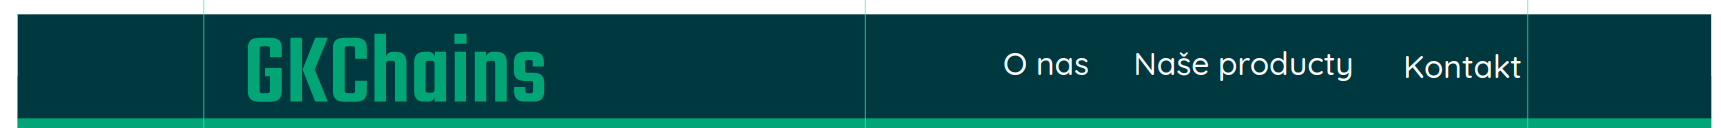
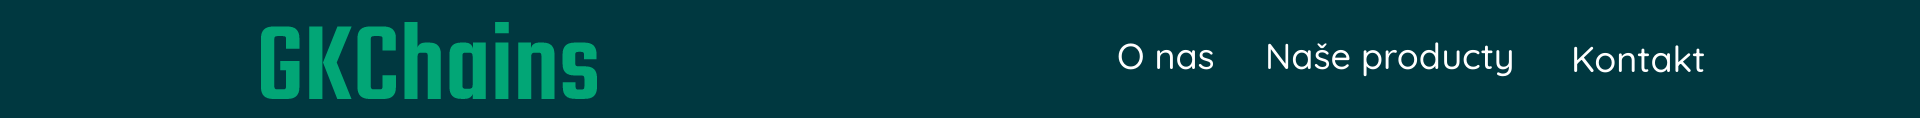
space optimisation and HTML + CSS

diff --git a/main.tex b/main.tex
@@ -1,6 +1,5 @@
 \input{preamble}
 \input{commands}
-
 \begin{document}
   \setlength{\emergencystretch}{10pt}
   \setcounter{page}{0}
@@ -9,6 +8,7 @@
   \include{introduction}
 
   \setcounter{tocdepth}{5}
+  \setcounter{secnumdepth}{5}
 
   \renewcommand{\contentsname}{Obsah}
   \tableofcontents
@@ -68,6 +68,12 @@ Môj maturitný projekt sa zameriava na 3D vizualizáciu kľúčenok a obalu pre
             Programovaci jazyk \textbf{\href{https://developer.mozilla.org/en-US/docs/Web/JavaScript}{JavaScript}}
 
             JavaScript (JS) je ľahký interpretovaný (alebo just-in-time skompilovaný) programovací jazyk s prvotriednymi funkciami.Je najznámejší ako skriptovací jazyk pre webové stránky.
+          }
+          \item{
+            \textbf{\href{https://sass-lang.com/}{SASS}} - najvyzretejší, najstabilnejší a najvýkonnejší profesionálny rozširujúci jazyk CSS na svete.
+          }
+          \item{
+            \textbf{\href{https://yandex.ru/dev/bem/}{BEM}} (Block, Element, Modifier) je komponentový prístup k vývoju webových stránok, ktorý je založený na princípe rozdelenia rozhrania do nezávislých blokov. Vyvynuta v Yandexe.
           }
           \item{
             Pre odobrazenie 3D modelov na webstranke bola použita 3D knižnica jazyka JavaScript \textbf{\href{https://github.com/mrdoob/three.js/}{three.js}}
@@ -233,24 +239,22 @@ Využitie 3D vizualizácie v obalovej technike nekončí len pri internom dizajn
           3
         \end{center}
 
-        Objekt som vyhladil pomocou modifikátora Subdivision Surface na úrovni 2. Aktivoval som funkciu Smooth Shading (Hladké tieňovanie), aby som dosiahol efekt vyhladenia objektu: \\
+        Objekt som vyhladil pomocou modifikátora Subdivision Surface na úrovni 2, aktivoval som funkciu Smooth Shading (plynulé tieňovanie), aby som dosiahol efekt vyhladenia a objekt som 2-krát skopíroval a otočil, ako je znázornené na obrázku. Všetky tri objekty som spojila do jedného. \\
         \begin{center}
-          \includegraphics[width=10cm]{keychains/4}
+          \begin{tabular}{c c}
+            \includegraphics[width=6cm]{keychains/4} & \includegraphics[width=6cm]{keychains/5} \\
+            1 & 2 \\
+          \end{tabular}
         \end{center}
 
-        Objekt som skopíroval 2-krát a otočil ho tak, ako je znázornené: \\
         \begin{center}
-          \includegraphics[width=10cm]{keychains/5}
-        \end{center}
-
-        Všetky tri objekty som spojila do jedného. \\
-        \begin{center}
-          \includegraphics[width=10cm]{keychains/6}
+          \includegraphics[width=6cm]{keychains/6} \\
+          3
         \end{center}
 
         Potom som v strede objektu vyrezal dieru pomocou modifikátora Boolean. Pidal som poslednu čast modelu: \\
         \begin{center}
-          \includegraphics[width=10cm]{keychains/7}
+          \includegraphics[width=6cm]{keychains/7}
         \end{center}
 
         Na záver som pridal kruh, ktorý drží kľúčenku na kľúčoch: \\
@@ -327,13 +331,161 @@ Využitie 3D vizualizácie v obalovej technike nekončí len pri internom dizajn
         }
       \end{enumerate}
 
-      % \begin{center}
-      %   \textbf{Hotovy navrh:}
-      %
-      %   \includegraphics[width=13cm]{web/9}
-      % \end{center}
+      \newpage
+
+      \begin{center}
+        \textbf{Hotovy navrh:}
+
+        \includegraphics[width=9cm]{web/9}
+      \end{center}
 
       \subsubsection{Kód}
+      Napísal som webovú stránku pomocou HTML, CSS a programovacieho jazyka javascript. Táto časť opisuje, ako som implementoval webovú stránku.
+      Pre uľahčenie som použil svoju \textbf{\href{https://github.com/SerMeliodas/gulp-template}{šablónu}} pre gulp ktora je v publickom dostupe na mojom GitHub.
+
+      \subsubsection*{HTML + SCSS}
+
+      Kód som písal postupne od hlavičky po časť "Kontaktujte nás". Pri písaní stránky som použil metodiku BEM.
+      V kóde boli použité rôzne tagy ktore nam poskytuje HTML versie 5.
+
+      \subsubsection*{Scss premenne}
+      Tu sú definované farebné premenné pre štýly, ktoré možno ďalej používať s týmito názvami
+      \begin{lstlisting}[language=css]
+$background-color: #005a5b ;
+$first-color: #003840;
+$second-color: #007369;
+$third-color: #008c72;
+$fourth-color: #02a676;
+      \end{lstlisting}
+
+      \subsubsection*{Štýly vynulovania}
+      Slúžia na resetovanie štandartnych štýlov priradených tagom prehliadačom
+\begin{lstlisting}[language=css]
+*{
+	padding: 0;
+	margin: 0;
+	border: 0;
+}
+b,*:before,*:after{
+	-moz-box-sizing: border-box;
+	-webkit-box-sizing: border-box;
+	box-sizing: border-box;
+}
+:focus,:active{outline: none;}
+a:focus,a:active{outline: none;}
+
+nav,footer,header,aside{display: block;}
+
+html,body{
+	height: 100%;
+	width: 100%;
+	font-size: 100%;
+	line-height: 1;
+	font-size: 14px;
+	-ms-text-size-adjust: 100%;
+	-moz-text-size-adjust: 100%;
+	-webkit-text-size-adjust: 100%;
+}
+input,button,textarea{font-family:inherit;}
+
+input::-ms-clear{display: none;}
+button{cursor: pointer;}
+button::-moz-focus-inner {padding:0;border:0;}
+a, a:visited{text-decoration: none;}
+a:hover{text-decoration: none;}
+ul li{list-style: none;}
+img{vertical-align: top;}
+
+h1,h2,h3,h4,h5,h6{font-size:inherit;font-weight: 400;}
+\end{lstlisting}
+
+      \subsubsection*{Hlavička}
+\begin{lstlisting}[language=html]
+<header class="header">
+  <div class="wrapper">
+    <img class="header__logo" src="svg/logo.svg" alt="logo">
+    <div class="header__nav-bar nav-bar">
+      <div class="nav-bar__item"><a href="#about">O nas</a></div>
+      <div class="nav-bar__item"><a href="#products">Naše producty</a></div>
+      <div class="nav-bar__item"><a href="#contact-form">Kontakt</a></div>
+    </div>
+  </div>
+</header>
+\end{lstlisting}
+
+    \subsubsection*{Hlavna sekcia}
+\begin{lstlisting}[language=html]
+<section class="main">
+  <div class="wrapper">
+    <img class="main__prerender" src="img/prerender.png" alt="prerender">
+    <div class="main__right">
+      <img class="main__logo" src="svg/logowhite.svg" alt="logo">
+      <div class="main__button button"><a href="#contact-form">OBJEDNAŤ</a></div>
+    </div>
+  </div>
+</section>
+\end{lstlisting}
+
+      \subsubsection*{Sekcia "O nas"}
+\begin{lstlisting}[language=html]
+<section class="about">
+  <a name="about"></a>
+  <div class="wrapper">
+    <div class="about__subtitle subtitle">O nas</div>
+    <div class="about__content">
+      Naša spoločnosť sa zaoberá ponukou služieb, ako je vývoj modelu podľa vašich požiadaviek, predaj hotových riešení, tlač vašich modelov na 3D tlačiarni.
+    </div>
+  </div>
+</section>
+\end{lstlisting}
+
+      \subsubsection*{Sekcia "Producty"}
+\begin{lstlisting}[language=html]
+<section class="products">
+  <a name="products" ></a>
+  <div class="wrapper">
+    <div class="products__subtitle subtitle">Naše producty</div>
+    <div class="products__buttons">
+      <img draggable="false" class="products__scroll" id="backward" src="svg/left_arrow.svg" alt="left_arrow">
+      <img draggable="false" class="products__scroll" id="forward" src="svg/right_arrow.svg" alt="right_arrow">
+    </div>
+  </div>
+  <div id="scene" class="products__scene" >
+  </div>
+</section>
+\end{lstlisting}
+
+      \subsubsection*{Sekcia "Kontaktujte nas"}
+\begin{lstlisting}[language=html]
+<section class="contact-form">
+  <a name="contact-form"></a>
+  <div class="contact-form__subtitle subtitle">Kontaktujte nas</div>
+  <div class="wrapper">
+    <div class="contact-form__left">
+      <form class="contact-form__form" action="">
+        <div class="contact-form__fio">
+          <input class="contact-form__input" type="text" placeholder="MENO" >
+          <input class="contact-form__input" type="text" placeholder="PRIEZVISKO">
+        </div>
+        <input class="contact-form__input" type="email" placeholder="EMAIL"><br>
+        <textarea class="contact-form__message contact-form__input" placeholder="SPRAVA"></textarea>
+        <div class="contact-form__button button">ODOSLAŤ</div>
+      </form>
+    </div>
+    <div class="contact-form__right">
+      <div class="contact-form__text">
+        Alebo možte použit naše socialne sieťe
+      </div>
+      <div class="contact-form__contacts">
+        <a href="#"><img class="contact-form__social" src="svg/instagram.svg" alt="instagram"></a>
+        <a href="#"><img class="contact-form__social" src="svg/telegram.svg" alt="telegram"></a>
+        <a href="#"><img class="contact-form__social" src="svg/email.svg" alt="email"></a>
+      </div>
+    </div>
+  </div>
+</section>
+\end{lstlisting}
+      \subsubsection*{JavaScript}
 
   \newpage
   \section{Cenova kalkulacia}
@@ -352,6 +504,9 @@ Využitie 3D vizualizácie v obalovej technike nekončí len pri internom dizajn
     \hline
     NeoVim & 0\EurCr \\
     \hline
+    \textbf{Súčet} & 16\EurCr \\
+    \hline
+
   \end{tabular}
 
   \newpage
@@ -370,17 +525,13 @@ Využitie 3D vizualizácie v obalovej technike nekončí len pri internom dizajn
           \url{https://akidon-y.github.io/site/rangs.html}
       }
       \item{
-          "Habr" webová stránka vo formáte systému tematických kolektívnych blogov. Príspevok o psychológii farieb.\\
+          Príspevok o psychológii farieb.\\
           \url{https://habr.com/ru/companies/lpcloud/articles/236439/}
       }
       \item{
           Príspevok o PVA lepidle \\
           \url{https://t.ly/JRhHG}
       }
-      % \item{
-      %     Dokumentácia \textbf{three.js} \\
-      %     \url{https://threejs.org/docs/index.html#manual/en/}
-      % }
       \item{
           Príspevok o landing page \\
           \url{https://www.sberbank.ru/ru/s_m_business/pro_business/kak-sozdat-prodayushchij-lending-dlya-prodazh/}

diff --git a/preamble.tex b/preamble.tex
@@ -10,7 +10,121 @@
 \usepackage{changepage}
 \usepackage{multirow}
 \usepackage{array}
+\usepackage{listings}
+\usepackage{xcolor}
+\usepackage{xurl}
+% CSS driver for LaTeX lstlisting
 
+\lstdefinelanguage{CSS}{
+  morekeywords={accelerator,azimuth,background,background-attachment,
+    background-color,background-image,background-position,
+    background-position-x,background-position-y,background-repeat,
+    behavior,border,border-bottom,border-bottom-color,
+    border-bottom-style,border-bottom-width,border-collapse,
+    border-color,border-left,border-left-color,border-left-style,
+    border-left-width,border-right,border-right-color,
+    border-right-style,border-right-width,border-spacing,
+    border-style,border-top,border-top-color,border-top-style,
+    border-top-width,border-width,bottom,caption-side,clear,
+    clip,color,content,counter-increment,counter-reset,cue,
+    cue-after,cue-before,cursor,direction,display,elevation,
+    empty-cells,filter,float,font,font-family,font-size,
+    font-size-adjust,font-stretch,font-style,font-variant,
+    font-weight,height,ime-mode,include-source,
+    layer-background-color,layer-background-image,layout-flow,
+    layout-grid,layout-grid-char,layout-grid-char-spacing,
+    layout-grid-line,layout-grid-mode,layout-grid-type,left,
+    letter-spacing,line-break,line-height,list-style,
+    list-style-image,list-style-position,list-style-type,margin,
+    margin-bottom,margin-left,margin-right,margin-top,
+    marker-offset,marks,max-height,max-width,min-height,
+    min-width,-moz-binding,-moz-border-radius,
+    -moz-border-radius-topleft,-moz-border-radius-topright,
+    -moz-border-radius-bottomright,-moz-border-radius-bottomleft,
+    -moz-border-top-colors,-moz-border-right-colors,
+    -moz-border-bottom-colors,-moz-border-left-colors,-moz-opacity,
+    -moz-outline,-moz-outline-color,-moz-outline-style,
+    -moz-outline-width,-moz-user-focus,-moz-user-input,
+    -moz-user-modify,-moz-user-select,orphans,outline,
+    outline-color,outline-style,outline-width,overflow,
+    overflow-X,overflow-Y,padding,padding-bottom,padding-left,
+    padding-right,padding-top,page,page-break-after,
+    page-break-before,page-break-inside,pause,pause-after,
+    pause-before,pitch,pitch-range,play-during,position,quotes,
+    -replace,richness,right,ruby-align,ruby-overhang,
+    ruby-position,-set-link-source,size,speak,speak-header,
+    speak-numeral,speak-punctuation,speech-rate,stress,
+    scrollbar-arrow-color,scrollbar-base-color,
+    scrollbar-dark-shadow-color,scrollbar-face-color,
+    scrollbar-highlight-color,scrollbar-shadow-color,
+    scrollbar-3d-light-color,scrollbar-track-color,table-layout,
+    text-align,text-align-last,text-decoration,text-indent,
+    text-justify,text-overflow,text-shadow,text-transform,
+    text-autospace,text-kashida-space,text-underline-position,top,
+    unicode-bidi,-use-link-source,vertical-align,visibility,
+    voice-family,volume,white-space,widows,width,word-break,
+    word-spacing,word-wrap,writing-mode,z-index,zoom,background-color,first-color,second-color,third-color,fourth-color},
+  morestring=[s]{:}{;},
+  sensitive,
+  morecomment=[s]{/*}{*/}
+}
+
+\definecolor{codegreen}{rgb}{0,0.6,0}
+\definecolor{codegray}{rgb}{0.5,0.5,0.5}
+\definecolor{codepurple}{rgb}{0.58,0,0.82}
+\definecolor{backcolour}{rgb}{0.95,0.95,0.92}
+\lstdefinestyle{mystyle}{
+    backgroundcolor=\color{backcolour},   
+    commentstyle=\color{codegreen},
+    keywordstyle=\color{magenta},
+    numberstyle=\color{codegray},
+    stringstyle=\color{codepurple},
+    basicstyle=\ttfamily\footnotesize,
+    breakatwhitespace=false,
+    breaklines=true,
+    captionpos=b,
+    keepspaces=true,
+    numbers=left,
+    numbersep=3pt,
+    showspaces=false,
+    showstringspaces=false,
+    showtabs=false,
+    tabsize=4,
+    frame=topline
+}
+\lstset{style=mystyle}
+\lstset{literate=%
+  {á}{{\'a}}1
+  {č}{{\v{c}}}1
+  {ď}{{\v{d}}}1
+  {é}{{\'e}}1
+  {ě}{{\v{e}}}1
+  {í}{{\'i}}1
+  {ň}{{\v{n}}}1
+  {ó}{{\'o}}1
+  {ř}{{\v{r}}}1
+  {š}{{\v{s}}}1
+  {ť}{{\v{t}}}1
+  {ú}{{\'u}}1
+  {ů}{{\r{u}}}1
+  {ý}{{\'y}}1
+  {ž}{{\v{z}}}1
+  {Á}{{\'A}}1
+  {Č}{{\v{C}}}1
+  {Ď}{{\v{D}}}1
+  {É}{{\'E}}1
+  {Ě}{{\v{E}}}1
+  {Í}{{\'I}}1
+  {Ň}{{\v{N}}}1
+  {Ó}{{\'O}}1
+  {Ř}{{\v{R}}}1
+  {Š}{{\v{S}}}1
+  {Ť}{{\v{T}}}1
+  {Ú}{{\'U}}1
+  {Ů}{{\r{U}}}1
+  {Ý}{{\'Y}}1
+  {Ž}{{\v{Z}}}1
+}
 \geometry{left=2.5cm}
 \geometry{right=2.5cm}
 \geometry{top=2.5cm}
